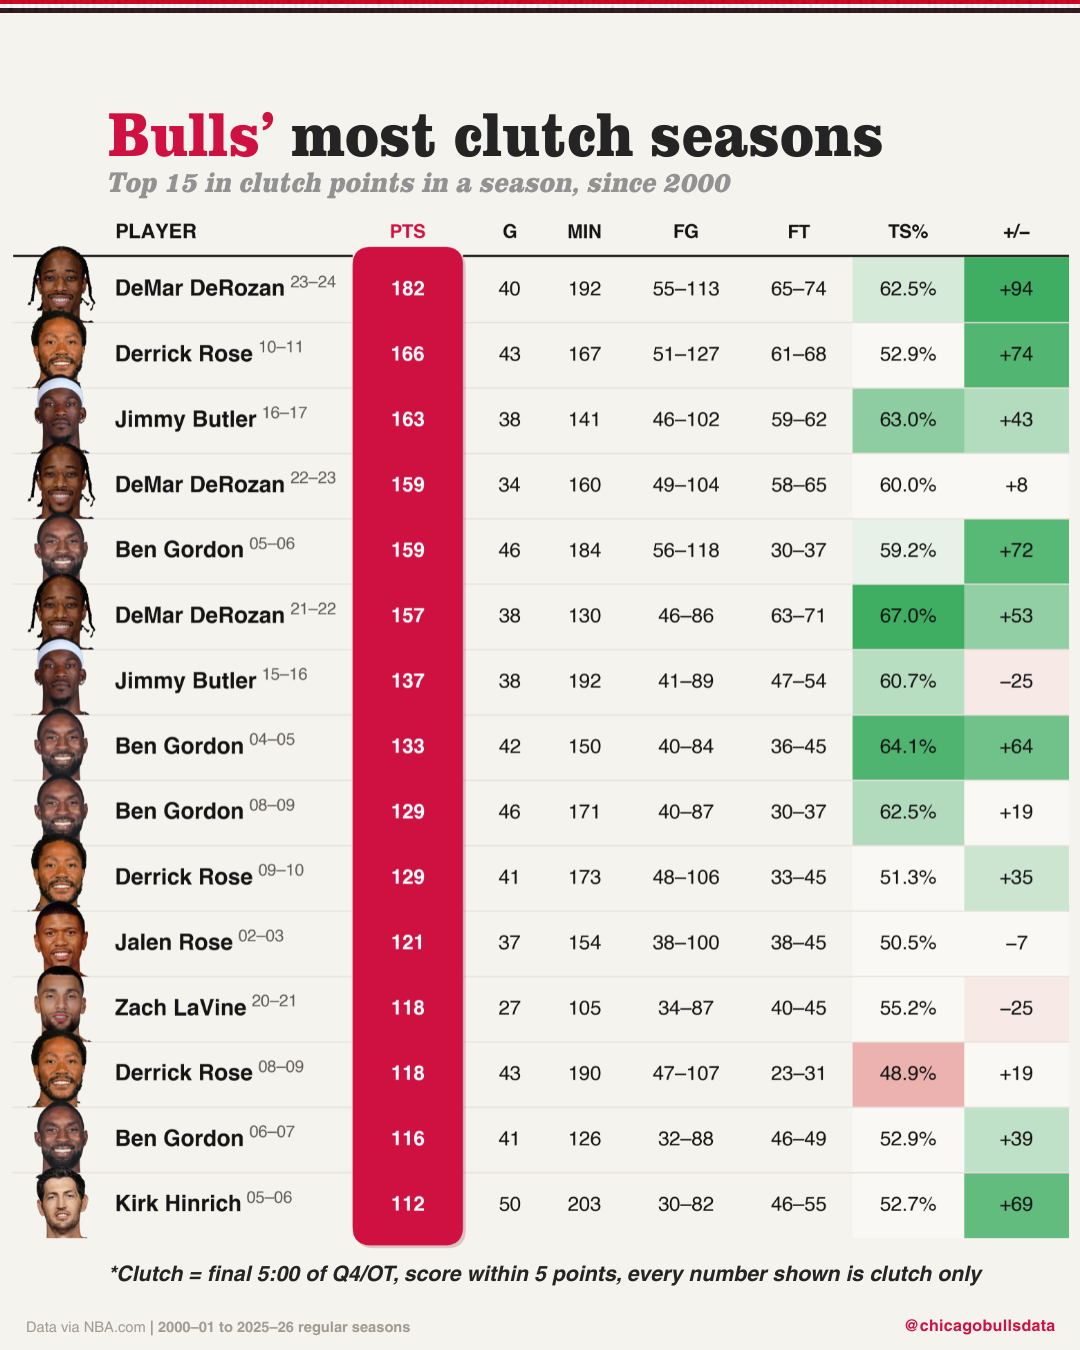
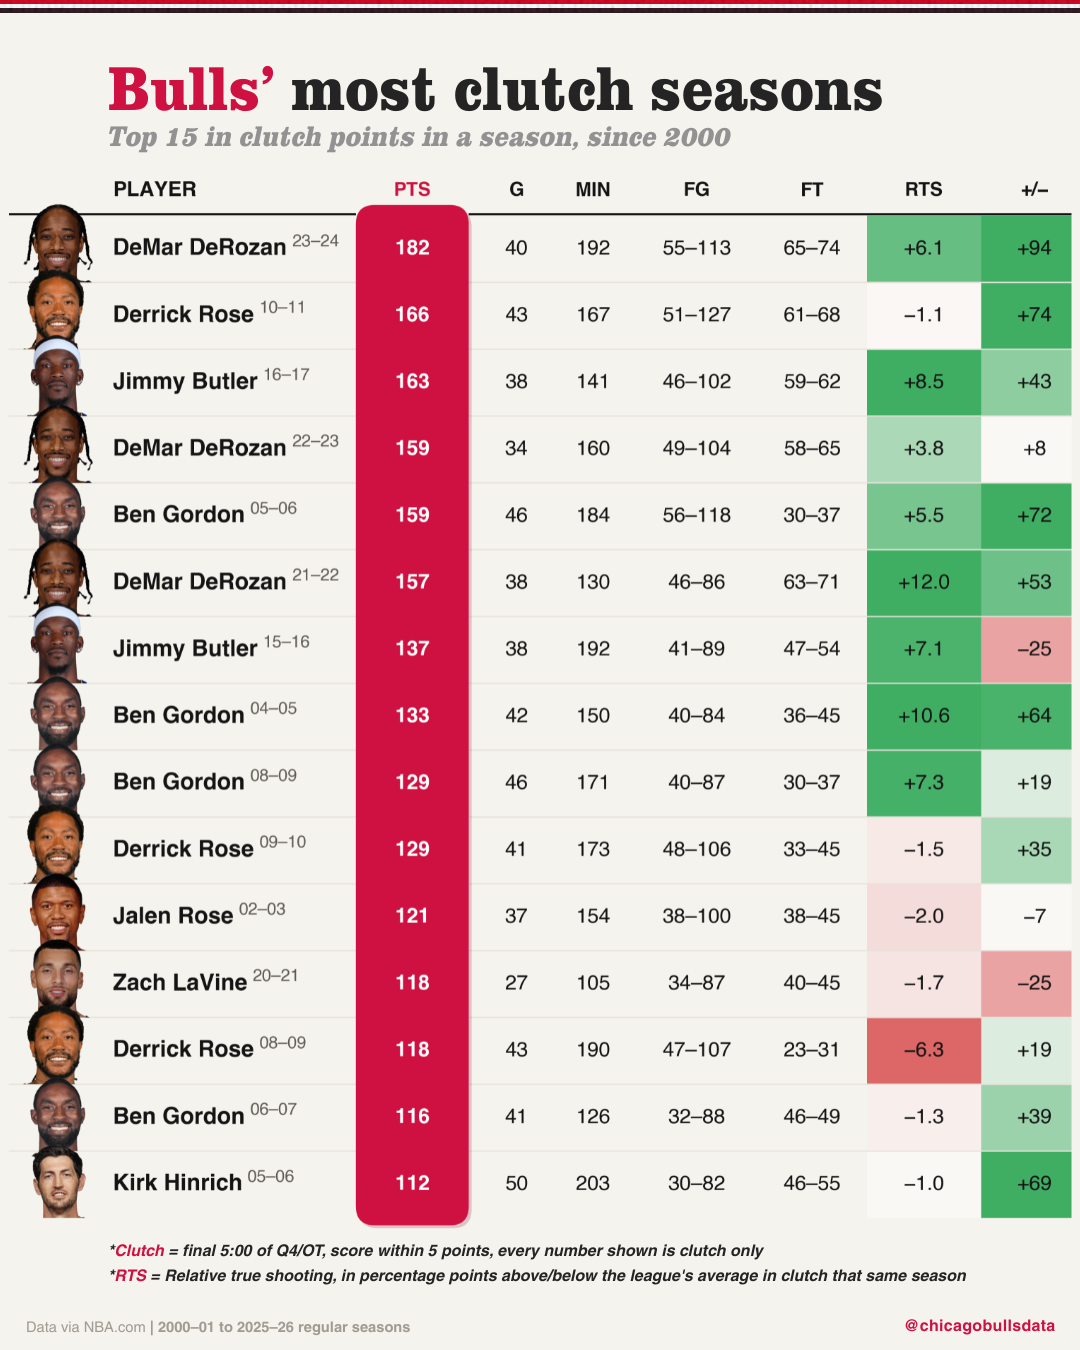
feat(posts): print relative true shooting, and recalibrate both heat scales
Replaces the TS% column with RTS — points of true shooting above or below the
league's clutch average that same season. The number was already computed and
already driving the cell's colour; the column now prints it instead of the raw
percentage, so the comparison the table is built on is stated rather than
implied. Ben Gordon's 2008-09 and DeMar DeRozan's 2023-24 both shot 62.5% and
now read +7.3 and +6.1.

Nothing analytical moved: the working CSV is byte-identical, and the table is
still ranked by clutch points.

Both scales were then recalibrated, and both were wrong in the same way — the
anchors survived a change in what the column meant.

- RTS was coloured on the population's 25th/75th percentiles (-3.5 to +4.9),
  an off-centre band inherited from when the cell printed a raw percentage
  with no meaningful zero. A column that already expresses a difference has to
  pivot on zero. Now -7.5 / -1.0 / +1.0 / +7.5, the ends at the population's
  10th and 90th. A +6 goes from an 18% tint to 79%.
- Plus-minus ran to +/-80, numbers reasoned to rather than measured. That left
  a -25 — the population's 17th percentile — at an 8% tint. Now -41.7 / -10 /
  +10 / +67. The ends are asymmetric on purpose: the distribution's median is
  +12, not 0, because players taking 100+ clutch shots are mostly on winning
  teams, so symmetric ends flattered every negative season.

Known and accepted: raw plus-minus is not minute-adjusted, so Butler's -25
[…]

diff --git a/scripts/prototypes/clutch_seasons_table.py b/scripts/prototypes/clutch_seasons_table.py
@@ -66,6 +66,8 @@ AHEAD_BEHIND = "Ahead or Behind"
 
 TABLE_ROWS = 15
 
+M = "−"
+
 NBA_CLUTCH_URL = (
     "https://www.nba.com/stats/players/clutch-traditional"
     "?PerMode=Totals&SeasonType=Regular%20Season"
@@ -208,19 +210,37 @@ def league_baselines(league: pd.DataFrame) -> pd.DataFrame:
 # between the two neutral values stays the page colour.
 CALIBRATION_MIN_TSA = 80
 COLUMN_SCALES = {
-    # Points of true shooting above or below the SAME SEASON's league clutch
-    # average, at the 5th / 25th / 75th / 95th percentile of that population.
-    # League clutch TS% climbed from .516 in 2000-01 to .569 in 2025-26, so a
-    # raw scale would have graded the 2000s red and the 2020s green and called
-    # it clutch shooting.
-    "ts_pct": (-10.5, -3.5, 4.9, 11.1),
-    # Diverging, and zero is where it belongs: the Bulls broke even over his
-    # clutch minutes. The band is deliberately wider than the population's own
-    # quartiles, because a single season's clutch plus-minus rests on roughly
-    # 300 possessions and a twenty-point swing over that is not a finding.
-    "PLUS_MINUS": (-80.0, -20.0, 20.0, 80.0),
+    # Symmetric around zero, because RTS is ALREADY a comparison and zero is
+    # the value it genuinely means something at: exactly the league's clutch
+    # average that season. The first version used the population's own 25th and
+    # 75th percentiles, which run -3.5 to +4.9 — an off-centre band that let a
+    # -3 read as unremarkable while a +3 did too, and buried the wholenegative side.
+    #
+    # The band is +/-1.0: about a fifth of the population, and the width below
+    # which two clutch seasons are not worth distinguishing. The ends are the
+    # population's 10th and 90th percentile magnitude (-6.99 / +7.69), rounded
+    # to +/-7.5. That puts +6 at roughly three-quarters strength — clearly good
+    # without claiming to be the best on the board — and gives a -2 a visible
+    # tint instead of nothing.
+    "ts_pct_relative": (-7.5, -1.0, 1.0, 7.5),
+    # Diverging, pivoting on zero: the Bulls broke even over his clutch
+    # minutes. The band is +/-10, about a sixth of the population and the width
+    # below which a clutch margin is not worth remarking on.
+    #
+    # The ends are ASYMMETRIC on purpose, each anchored at the same percentile
+    # of the actual distribution — the 10th (-41.7) and the 90th (+67.0). That
+    # distribution really is lopsided: its median is +12, not 0, because the
+    # players who take 100+ clutch shots are mostly on teams that win. Forcing
+    # symmetric ends would have flattered every negative season by grading it
+    # against a spread the population does not have.
+    #
+    # The previous +/-80 ends left a -25 at 8% tint, near-invisible, for a
+    # season sitting in the bottom sixth of the field.
+    "PLUS_MINUS": (-41.7, -10.0, 10.0, 67.0),
 }
-ERA_RELATIVE_METRICS = ("ts_pct",)
+# Nothing needs the raw-versus-coloured indirection any more: the cell prints
+# the same number the scale is calibrated on. `ts_pct` stays in the working CSV.
+ERA_RELATIVE_METRICS = ()
 
 
 def prepare_table(
@@ -447,10 +467,10 @@ STAT_COLUMNS = (
     ("MIN", "MIN", 0.76),
     ("fg_line", "FG", 1.06),
     ("ft_line", "FT", 0.96),
-    ("ts_pct", "TS%", 1.00),
+    ("ts_pct_relative", "RTS", 1.00),
     ("PLUS_MINUS", "+/−", 0.94),
 )
-SHADED_METRICS = ("ts_pct", "PLUS_MINUS")
+SHADED_METRICS = ("ts_pct_relative", "PLUS_MINUS")
 HERO_METRIC = "PTS"
 # The rookie leaderboard's values, and its whole treatment: the card reaches
 # past the header rule and is drawn ABOVE it, so it reads as an object resting
@@ -508,8 +528,13 @@ def cell_label(row: pd.Series, metric: str) -> str:
         return f"{int(row['FGM'])}\N{EN DASH}{int(row['FGA'])}"
     if metric == "ft_line":
         return f"{int(row['FTM'])}\N{EN DASH}{int(row['FTA'])}"
-    if metric == "ts_pct":
-        return f"{float(row['ts_pct']) * 100:.1f}%"
+    if metric == "ts_pct_relative":
+        # Points of true shooting above or below this season's league clutch
+        # average. Signed, with a true minus, and the sign decided AFTER
+        # rounding so a -0.04 never prints as a minus in front of a zero.
+        value = round(float(row["ts_pct_relative"]), 1)
+        sign = "+" if value > 0 else (M if value < 0 else "")
+        return f"{sign}{abs(value):.1f}"
     if metric == "pts_per_36":
         return f"{float(row['pts_per_36']):.1f}"
     if metric == "PLUS_MINUS":
@@ -726,18 +751,30 @@ def canva_copy_block(table: pd.DataFrame, report: dict) -> str:
                 "DEFINITIONS: Clutch = final 5:00 with the score within 5. "
                 "G and MIN are clutch games and clutch minutes. FG = clutch field "
                 "goals made-attempted. FT = clutch free throws made-attempted. "
-                "TS% = true "
-                "shooting, which counts free throws and the extra point on a "
-                "three, and is built only from clutch shooting. +/− = the "
+                "RTS = relative true shooting, in points above or below the "
+                "league's clutch average that same season. True shooting counts "
+                "free throws and the extra point on a three; every figure in it "
+                "is clutch only. +/− = the "
                 "Bulls' net points over the clutch minutes he was on the floor "
                 "for. It is a five-man team figure: everyone on the court "
                 "shares the same swing."
             ),
             "",
             (
-                "COLOUR: TS% is shaded against the league clutch average of its "
-                "own season, because that average rose from 51.6% in 2000-01 to "
-                "56.9% in 2025-26. +/− is shaded around zero. Green is better."
+                "COLOUR: RTS is already a comparison, so it is shaded on its "
+                "own value. The league's clutch true shooting rose from 51.6% in "
+                "2000-01 to 56.9% in 2025-26, which is why a raw percentage "
+                "would have ranked eras instead of players. +/− is shaded "
+                "around zero. Green is better."
+            ),
+            "",
+            (
+                "BASELINE NOTE: RTS compares each season to every clutch "
+                "possession played in the NBA that season, pooled from league "
+                "totals. The league's full-season shooting is deliberately not "
+                "the baseline: clutch shooting ran 0.6 points ABOVE it in "
+                "2004-05 and 1.6 points BELOW it in 2023-24, so that gap would "
+                "have smuggled its own era drift into every figure."
             ),
             "",
             (

diff --git a/tests/test_clutch_seasons_table.py b/tests/test_clutch_seasons_table.py
@@ -169,25 +169,43 @@ def test_true_shooting_colour_is_judged_against_its_own_season():
     )
     rated["ts_pct_relative"] = (rated["ts_pct"] - rated["league_ts_pct"]) * 100
     assert rated.iloc[0]["ts_pct"] == pytest.approx(rated.iloc[1]["ts_pct"])
-    assert shaded_value(rated.iloc[0], "ts_pct") > shaded_value(rated.iloc[1], "ts_pct")
+    # Identical raw shooting, different achievement — and now the CELL says so
+    # rather than only its colour.
+    assert (
+        shaded_value(rated.iloc[0], "ts_pct_relative")
+        > shaded_value(rated.iloc[1], "ts_pct_relative")
+    )
+    assert cell_label(rated.iloc[0], "ts_pct_relative").startswith("+")
+    assert cell_label(rated.iloc[1], "ts_pct_relative").startswith("\N{MINUS SIGN}")
 
 
 def test_the_neutral_band_leaves_an_ordinary_season_uncoloured():
     """A cell that says nothing remarkable disappears into the page."""
     from bulls.graphics.house import heat_fill
 
-    red_at, low, high, green_at = COLUMN_SCALES["ts_pct"]
+    red_at, low, high, green_at = COLUMN_SCALES["ts_pct_relative"]
     middle = (low + high) / 2
     assert heat_fill(middle, red_at, low, high, green_at) == to_rgb(HEAT_MID)
     assert heat_fill(green_at, red_at, low, high, green_at) != to_rgb(HEAT_MID)
 
 
-def test_plus_minus_band_is_centred_on_breaking_even():
-    """Zero is the value clutch plus-minus genuinely means something at."""
+def test_plus_minus_pivots_on_zero_but_its_ends_need_not_match():
+    """The BAND is centred on breaking even; the ENDS follow the population.
+
+    Zero is the value clutch plus-minus means something at, so the dead band
+    straddles it symmetrically. The ends are a different question: the
+    distribution's median is +12, not 0, because the players who take 100+
+    clutch shots are mostly on winning teams. Anchoring each end at the same
+    percentile of that lopsided field is what keeps a poor season from being
+    graded against a spread the population does not actually have.
+    """
     red_at, low, high, green_at = COLUMN_SCALES["PLUS_MINUS"]
     assert low < 0 < high
-    assert -low == pytest.approx(high)
-    assert -red_at == pytest.approx(green_at)
+    assert -low == pytest.approx(high), "the dead band must straddle zero evenly"
+    assert red_at < low and green_at > high
+    # Asymmetric by design — assert the direction so a future 'tidy-up' that
+    # symmetrises them has to argue with this instead of looking like a fix.
+    assert abs(red_at) < abs(green_at)
 
 
 def test_the_scoring_rate_is_kept_in_the_data_but_off_the_chart():
@@ -296,8 +314,33 @@ def test_the_shooting_line_prints_the_sample_not_a_percentage():
     # Free throws are half of what makes a clutch scorer: DeRozan's 2023-24
     # leader has 65 of his 182 points at the line.
     assert cell_label(row, "ft_line") == "65\N{EN DASH}74"
-    assert cell_label(row, "ts_pct") == "62.5%"
     assert cell_label(row, "MIN") == "192"
+
+
+def test_relative_true_shooting_is_signed_and_never_a_signed_zero():
+    """The cell prints the comparison itself, not the raw percentage.
+
+    A raw 62.5% meant two different things in 2004-05 and 2023-24; this column
+    prints the difference so the reader does not have to know the era.
+    """
+    assert cell_label(pd.Series({"ts_pct_relative": 12.04}), "ts_pct_relative") == "+12.0"
+    assert cell_label(pd.Series({"ts_pct_relative": -6.26}), "ts_pct_relative") == "\N{MINUS SIGN}6.3"
+    # Python rounds exact halves to even, so -6.25 gives -6.2 rather than -6.3.
+    # Left alone deliberately: a tenth either way on a figure this noisy is not
+    # worth a custom rounder, and pinning it here stops it reading as a bug.
+    assert cell_label(pd.Series({"ts_pct_relative": -6.25}), "ts_pct_relative") == "\N{MINUS SIGN}6.2"
+    # Sign decided after rounding, so a -0.04 never prints as "-0.0".
+    assert cell_label(pd.Series({"ts_pct_relative": -0.04}), "ts_pct_relative") == "0.0"
+
+
+def test_the_raw_percentage_stays_in_the_data_but_off_the_chart():
+    """`ts_pct` is still computed and reconciled; it is just not a column."""
+    assert "ts_pct" not in [metric for metric, _, _ in STAT_COLUMNS]
+    assert "ts_pct" not in COLUMN_SCALES
+    frame = pd.DataFrame(
+        [_row("2023-24", 1, "Leader", "CHI", 40, 24, 182, 55, 113, 74, 191.8)]
+    )
+    assert add_rates(frame).iloc[0]["ts_pct"] == pytest.approx(182 / (2 * (113 + 0.44 * 74)))
 
 
 def test_plus_minus_prints_a_true_minus_and_never_a_signed_zero():

diff --git a/DESIGN.md b/DESIGN.md
@@ -317,10 +317,32 @@ guard.
 **Calibrate from the population, never from the chart's own range.** Min-to-max scaling hands the
 midpoint to whichever single row happens to be extreme, so the colour ends up describing that outlier
 instead of the field. Anchor on percentiles of the population the chart is about, or on a published
-basketball reference (replacement level, league average). Where a statistic has drifted across eras,
-colour on the gap to that season's league value and print the raw number — otherwise the scale ranks
-eras rather than players. Where a statistic has a meaningful zero, neutral belongs at zero; a
-negative number must never read as green.
+basketball reference (replacement level, league average). Where a statistic has a meaningful zero,
+neutral belongs at zero; a negative number must never read as green.
+
+**Where a statistic has drifted across eras, colour on the gap to that season's league value.** What
+the cell *prints* is a separate decision, and both answers are in use:
+
+- **Print the raw number** when the raw number is the one a reader recognises. The rookie table's
+  `TS%` does this — 57.1% means something on sight, and the colour carries the era adjustment
+  silently.
+- **Print the gap itself** when the comparison *is* the point. `clutch_seasons_table.py` prints
+  `RTS` — points above or below that season's league clutch average — because two identical 62.5%
+  seasons twenty years apart were different achievements, and a table whose whole subject is
+  cross-era ranking should say so rather than leave it to the shading.
+
+**A column that already expresses a difference changes what its scale should be.** Percentile anchors
+suit a raw measure with no natural midpoint; anything already relative pivots on zero, and its dead
+band must straddle zero evenly. Swapping a cell from raw to relative therefore obliges you to
+recalibrate — the old anchors keep *working*, which is exactly what hides the problem. Colouring
+`RTS` on the population's own 25th/75th (−3.5 to +4.9) left an off-centre band where a −3 read as
+unremarkable.
+
+**The two ends need not match, and forcing them to can flatter one side.** The band straddles zero;
+the ends are a separate question, each anchored at the same percentile of the real distribution. Clutch
+plus-minus has a median of +12, not 0, because the players who take 100+ clutch shots are mostly on
+winning teams — so its ends sit at −41.7 and +67.0, the 10th and 90th. Symmetric ends had graded every
+negative season against a spread the field does not have, leaving a −25 at an 8% tint.
 
 The ends may sit on either side of the band, so a column where low is good runs green downward with
 no separate inverted code path.
